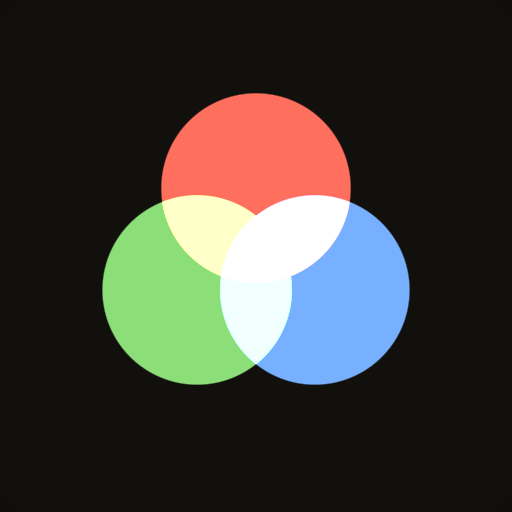
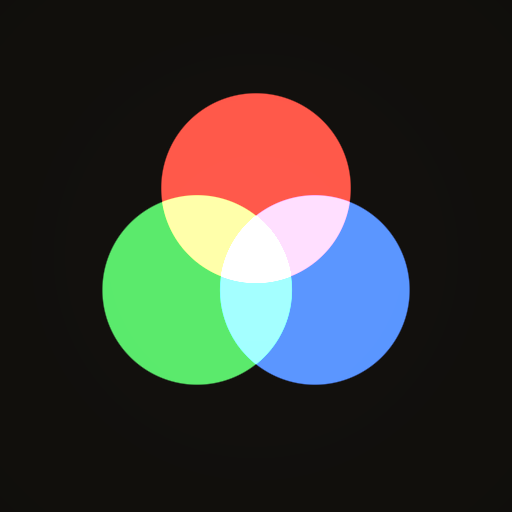
fix: 图标三原色改为饱和RGB基色——修正重叠区混色为正确的黄/青/品红/白

Changed region(s): [[0.1875, 0.375, 0.8125, 0.75]]

diff --git a/index.html b/index.html
@@ -23,9 +23,9 @@
       <circle cx="16" cy="16" r="14" fill="#161310"/>
       <circle cx="16" cy="16" r="12.2" fill="none" stroke="#c8a45c" stroke-width="0.7" opacity="0.6"/>
       <g style="mix-blend-mode:screen">
-        <circle cx="16" cy="12.4" r="6.4" fill="#e05548"/>
-        <circle cx="11.9" cy="19.8" r="6.4" fill="#6db860"/>
-        <circle cx="20.1" cy="19.8" r="6.4" fill="#5a8fd8"/>
+        <circle cx="16" cy="12.4" r="6.4" fill="#eb4137"/>
+        <circle cx="11.9" cy="19.8" r="6.4" fill="#41c355"/>
+        <circle cx="20.1" cy="19.8" r="6.4" fill="#4178eb"/>
       </g>
     </svg>
     <div class="brand-text">

diff --git a/icons/gen_icons.py b/icons/gen_icons.py
@@ -36,9 +36,9 @@ def soft(dist, radius, aa=1.4):
 
 BG    = (18, 16, 13)
 BRASS = (200, 164, 92)
-RED   = (224, 85, 72)
-GREEN = (109, 184, 96)
-BLUE  = (90, 143, 216)
+RED   = (235, 65, 55)    # 饱和红基色 — screen 混色: R+G→黄, R+B→品红
+GREEN = (65, 195, 85)    # 饱和绿基色 — screen 混色: G+R→黄, G+B→青
+BLUE  = (65, 120, 235)   # 饱和蓝基色 — screen 混色: B+R→品红, B+G→青
 
 # 等边三角形参数（重心在画布中心）
 # 圆心距 d=125, 半径 r=102 → 重叠自然呈现加法混色
